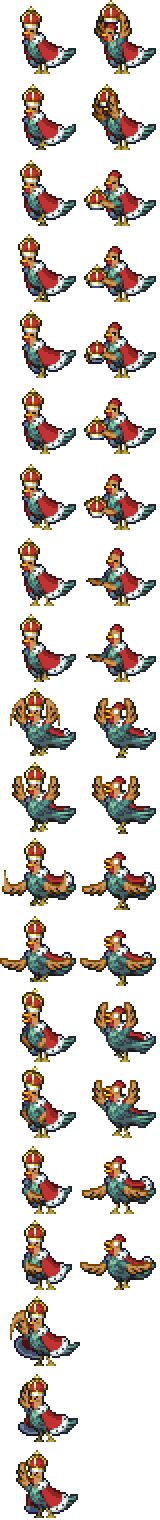
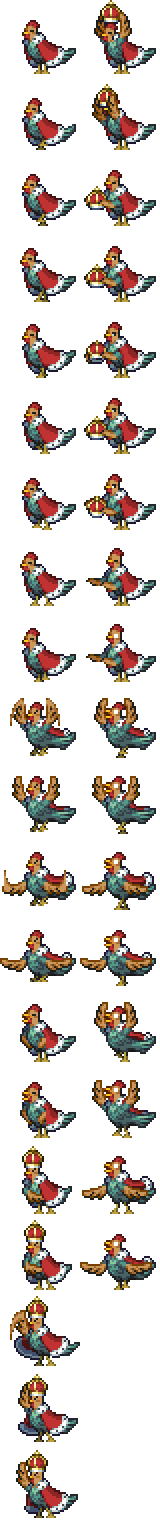
fowl patch p13

diff --git a/NPCs/Bosses/FowlEmperor/FowlEmperor.cs b/NPCs/Bosses/FowlEmperor/FowlEmperor.cs
@@ -11,12 +11,14 @@ using Redemption.Items.Usable.Potions;
 using Redemption.Items.Usable.Summons;
 using System;
 using System.Collections.Generic;
+using System.Security.AccessControl;
 using Terraria;
 using Terraria.Audio;
 using Terraria.DataStructures;
 using Terraria.GameContent;
 using Terraria.GameContent.Bestiary;
 using Terraria.GameContent.ItemDropRules;
+using Terraria.GameContent.UI;
 using Terraria.ID;
 using Terraria.ModLoader;
 
@@ -154,7 +156,8 @@ namespace Redemption.NPCs.Bosses.FowlEmperor
                     Item.NewItem(NPC.GetSource_Loot(), NPC.getRect(), ModContent.ItemType<FriedChicken>(), 5);
             }
         }
-
+        public override bool? CanBeHitByItem(Player player, Item item) => AIState > ActionState.Start ? null : false;
+        public override bool? CanBeHitByProjectile(Projectile projectile) => AIState > ActionState.Start ? null : false;
         public override void ScaleExpertStats(int numPlayers, float bossLifeScale)
         {
             NPC.lifeMax = (int)(NPC.lifeMax * 0.7f * bossLifeScale);
@@ -169,6 +172,7 @@ namespace Redemption.NPCs.Bosses.FowlEmperor
         public int crownLife = 40;
         public Vector2 moveTo;
         private bool eggCracked;
+        private Projectile crownProj;
         public override void AI()
         {
             Player player = Main.player[NPC.target];
@@ -216,14 +220,74 @@ namespace Redemption.NPCs.Bosses.FowlEmperor
                             {
                                 NPC.noTileCollide = false;
                                 NPC.noGravity = false;
+                                TimerRand++;
 
                                 AniType = (int)AnimType.None;
+                            }
+                            else
+                                NPC.Move(landingPos - new Vector2(0, 100), 10, 20);
+                            break;
+                        case 2:
+                            if (NPC.velocity.Y == 0)
+                            {
+                                NPC.LookAtEntity(player);
+                                EmoteBubble.NewBubble(15, new WorldUIAnchor(NPC), 90);
+                                NPC.Shoot(NPC.Center + new Vector2(10 * NPC.spriteDirection, -16), ModContent.ProjectileType<FowlEmperor_Crown_Proj>(), 0, NPC.velocity / 4, false, SoundID.Item1, NPC.whoAmI);
+                                NPC.velocity.X = 0;
+                                hideCrown = true;
+                                TimerRand++;
+                                for (int p = 0; p < Main.maxProjectiles; p++)
+                                {
+                                    Projectile crown = Main.projectile[p];
+                                    if (!crown.active || crown.type != ModContent.ProjectileType<FowlEmperor_Crown_Proj>() || crown.ai[0] != NPC.whoAmI)
+                                        continue;
+
+                                    crownProj = crown;
+                                }
+                            }
+                            break;
+                        case 3:
+                            AniType = (int)AnimType.Laugh;
+                            if (AITimer++ >= 90)
+                            {
+                                if (crownProj is null)
+                                    NPC.LookAtEntity(crownProj);
+                                NPC.frame.Y = 8 * 76;
+                                AniType = (int)AnimType.Stun;
+                            }
+                            if (AITimer >= 180)
+                            {
+                                AITimer = 0;
+                                TimerRand++;
+                            }
+                            break;
+                        case 4:
+                            AniType = (int)AnimType.None;
+                            if (crownProj is null)
+                                AITimer = 120;
+                            else
+                            {
+                                NPC.PlatformFallCheck(ref NPC.Redemption().fallDownPlatform, 20, crownProj.Center.Y);
+                                NPCHelper.HorizontallyMove(NPC, crownProj.Center, 0.08f, 2f, 18, 18, NPC.Center.Y > crownProj.Center.Y, crownProj);
+                            }
+                            if (AITimer++ >= 120)
+                            {
+                                NPC.velocity.X = 0;
+                                EmoteBubble.NewBubble(1, new WorldUIAnchor(NPC), 80);
+                                AniType = (int)AnimType.Recrown;
+                                AITimer = 0;
+                                TimerRand++;
+                            }
+                            break;
+                        case 5:
+                            if (AniType is (int)AnimType.None)
+                            {
+                                AniType = (int)AnimType.Recrown;
+                                AITimer = 0;
                                 AIState = ActionState.Idle;
                                 TimerRand = Main.rand.Next(140, 201);
                                 NPC.netUpdate = true;
                             }
-                            else
-                                NPC.Move(landingPos - new Vector2(0, 100), 10, 20);
                             break;
                     }
                     break;
@@ -587,6 +651,7 @@ namespace Redemption.NPCs.Bosses.FowlEmperor
                         NPC.frame.Y -= frameHeight;
                         if (NPC.frame.Y < 0)
                         {
+                            hideCrown = false;
                             NPC.frame.Y = 0;
                             AniType = (int)AnimType.None;
                         }
@@ -650,9 +715,11 @@ namespace Redemption.NPCs.Bosses.FowlEmperor
                 damage *= 10;
             }
         }
+        private bool hideCrown;
         public override bool PreDraw(SpriteBatch spriteBatch, Vector2 screenPos, Color drawColor)
         {
             Texture2D texture = TextureAssets.Npc[NPC.type].Value;
+            Texture2D crownTex = ModContent.Request<Texture2D>(Texture + "_CrownSheet").Value;
             var effects = NPC.spriteDirection == -1 ? SpriteEffects.None : SpriteEffects.FlipHorizontally;
 
             if (!NPC.IsABestiaryIconDummy && (AniType is (int)AnimType.Mad or (int)AnimType.Flap))
@@ -665,6 +732,8 @@ namespace Redemption.NPCs.Bosses.FowlEmperor
             }
 
             spriteBatch.Draw(texture, NPC.Center - new Vector2(0, 8) - screenPos, NPC.frame, NPC.GetAlpha(drawColor), NPC.rotation, NPC.frame.Size() / 2, NPC.scale, effects, 0f);
+            if (!hideCrown)
+                spriteBatch.Draw(crownTex, NPC.Center - new Vector2(0, 8) - screenPos, NPC.frame, NPC.GetAlpha(drawColor), NPC.rotation, NPC.frame.Size() / 2, NPC.scale, effects, 0f);
 
             if (!eggCracked || AniType is not (int)AnimType.Stun)
                 return false;

diff --git a/NPCs/Bosses/FowlEmperor/FowlEmperor_Crown.cs b/NPCs/Bosses/FowlEmperor/FowlEmperor_Crown.cs
@@ -1,0 +1,62 @@
+using Microsoft.Xna.Framework;
+using Microsoft.Xna.Framework.Graphics;
+using Redemption.Base;
+using Redemption.Globals;
+using Terraria;
+using Terraria.GameContent;
+using Terraria.ModLoader;
+
+namespace Redemption.NPCs.Bosses.FowlEmperor
+{
+    public class FowlEmperor_Crown_Proj : ModProjectile
+    {
+        public override string Texture => "Redemption/NPCs/Bosses/FowlEmperor/FowlEmperor_Crown";
+        public override void SetStaticDefaults()
+        {
+            DisplayName.SetDefault("Fowl Crown");
+        }
+        public override void SetDefaults()
+        {
+            Projectile.width = 18;
+            Projectile.height = 18;
+            Projectile.friendly = false;
+            Projectile.hostile = false;
+            Projectile.penetrate = -1;
+            Projectile.tileCollide = true;
+            Projectile.timeLeft = 300;
+        }
+        public override void AI()
+        {
+            NPC npc = Main.npc[(int)Projectile.ai[0]];
+            if (!npc.active || npc.type != ModContent.NPCType<FowlEmperor>() || npc.ai[2] > 4)
+                Projectile.Kill();
+            if (npc.ai[2] == 4 && npc.Hitbox.Intersects(Projectile.Hitbox))
+            {
+                npc.ai[1] = 120;
+                npc.netUpdate = true;
+                Projectile.active = false;
+            }
+            Projectile.LookByVelocity();
+            Projectile.rotation += Projectile.velocity.X / 20;
+            Projectile.velocity.Y += 0.2f;
+        }
+        public override bool PreDraw(ref Color lightColor)
+        {
+            Texture2D texture = TextureAssets.Projectile[Projectile.type].Value;
+            Vector2 drawOrigin = new(texture.Width / 2, texture.Height / 2 + 2);
+
+            Main.EntitySpriteDraw(texture, Projectile.Center - Main.screenPosition, null, Projectile.GetAlpha(lightColor), Projectile.rotation, drawOrigin, Projectile.scale, SpriteEffects.None, 0);
+            return false;
+        }
+        public override bool OnTileCollide(Vector2 oldVelocity)
+        {
+            if (Projectile.velocity.X != oldVelocity.X)
+                Projectile.velocity.X = -oldVelocity.X;
+            if (Projectile.velocity.Y != oldVelocity.Y)
+                Projectile.velocity.Y = -oldVelocity.Y;
+            Projectile.velocity.Y *= 0.5f;
+            Projectile.velocity.X *= 0.8f;
+            return false;
+        }
+    }
+}

diff --git a/NPCs/FowlMorning/Cockatrice.cs b/NPCs/FowlMorning/Cockatrice.cs
@@ -8,6 +8,9 @@ using Redemption.Globals.NPC;
 using Redemption.Globals.World;
 using Redemption.Items.Accessories.PreHM;
 using Redemption.Items.Usable.Potions;
+using Redemption.Items.Weapons.PreHM.Melee;
+using Redemption.Items.Weapons.PreHM.Ranged;
+using Redemption.Items.Weapons.PreHM.Summon;
 using System;
 using System.Collections.Generic;
 using Terraria;
@@ -83,6 +86,10 @@ namespace Redemption.NPCs.FowlMorning
 
                 new FlavorTextBestiaryInfoElement("Squawk!")
             });
+        }
+        public override void BossLoot(ref string name, ref int potionType)
+        {
+            potionType = ItemID.Heart;
         }
         public override void ScaleExpertStats(int numPlayers, float bossLifeScale)
         {
@@ -263,6 +270,9 @@ namespace Redemption.NPCs.FowlMorning
         public override void ModifyNPCLoot(NPCLoot npcLoot)
         {
             npcLoot.Add(ItemDropRule.Common(ModContent.ItemType<EggShield>(), 10));
+            npcLoot.Add(ItemDropRule.Common(ModContent.ItemType<GreneggLauncher>(), 10));
+            npcLoot.Add(ItemDropRule.Common(ModContent.ItemType<Halbirdhouse>(), 10));
+            npcLoot.Add(ItemDropRule.Common(ModContent.ItemType<NestWand>(), 10));
             npcLoot.Add(ItemDropRule.ByCondition(new OnFireCondition(), ModContent.ItemType<FriedChicken>(), 1, 2, 3));
         }
         public override void OnHitByItem(Player player, Item item, int damage, float knockback, bool crit)

diff --git a/Globals/NPC/RedeNPC.cs b/Globals/NPC/RedeNPC.cs
@@ -37,6 +37,7 @@ using Redemption.Items.Donator.Lordfunnyman;
 using Redemption.Globals.World;
 using Redemption.Buffs.Cooldowns;
 using Steamworks;
+using Redemption.Items.Weapons.PreHM.Ranged;
 
 namespace Redemption.Globals.NPC
 {
@@ -52,6 +53,8 @@ namespace Redemption.Globals.NPC
 
         public override void SetupShop(int type, Chest shop, ref int nextSlot)
         {
+            if (type == NPCID.Demolitionist && Main.LocalPlayer.HasItem(ModContent.ItemType<GreneggLauncher>()))
+                shop.item[nextSlot++].SetDefaults(ModContent.ItemType<EggBomb>());
             if (type == NPCID.SkeletonMerchant)
                 shop.item[nextSlot++].SetDefaults(ModContent.ItemType<CalciteWand>());
             if (type == NPCID.Dryad)

diff --git a/NPCs/FowlMorning/ChickenBomber.cs b/NPCs/FowlMorning/ChickenBomber.cs
@@ -126,7 +126,7 @@ namespace Redemption.NPCs.FowlMorning
         public override void ModifyNPCLoot(NPCLoot npcLoot)
         {
             npcLoot.Add(ItemDropRule.Common(ModContent.ItemType<EggBomb>(), 2, 4, 6));
-            npcLoot.Add(ItemDropRule.Common(ModContent.ItemType<GreneggLauncher>(), 25));
+            npcLoot.Add(ItemDropRule.Common(ModContent.ItemType<GreneggLauncher>(), 60));
             npcLoot.Add(ItemDropRule.ByCondition(new OnFireCondition(), ModContent.ItemType<FriedChicken>(), 4));
         }
         public override void OnHitByItem(Player player, Item item, int damage, float knockback, bool crit)

diff --git a/NPCs/FowlMorning/Haymaker.cs b/NPCs/FowlMorning/Haymaker.cs
@@ -169,7 +169,7 @@ namespace Redemption.NPCs.FowlMorning
         }
         public override void ModifyNPCLoot(NPCLoot npcLoot)
         {
-            npcLoot.Add(ItemDropRule.Common(ModContent.ItemType<NestWand>(), 50));
+            npcLoot.Add(ItemDropRule.Common(ModContent.ItemType<NestWand>(), 60));
             npcLoot.Add(ItemDropRule.ByCondition(new OnFireCondition(), ModContent.ItemType<FriedChicken>(), 4));
         }
         public override void OnHitByItem(Player player, Item item, int damage, float knockback, bool crit)

diff --git a/Items/Weapons/PreHM/Ranged/EggBomb.cs b/Items/Weapons/PreHM/Ranged/EggBomb.cs
@@ -1,3 +1,4 @@
+using Terraria;
 using Terraria.ID;
 using Terraria.ModLoader;
 
@@ -18,7 +19,7 @@ namespace Redemption.Items.Weapons.PreHM.Ranged
             Item.damage = 32;
             Item.knockBack = 8;
             Item.maxStack = 9999;
-            Item.value = 15;
+            Item.value = Item.buyPrice(0, 0, 0, 70);
             Item.rare = ItemRarityID.Blue;
             Item.useStyle = ItemUseStyleID.Swing;
             Item.useAnimation = 35;

diff --git a/NPCs/PreHM/VagrantSpirit.cs b/NPCs/PreHM/VagrantSpirit.cs
@@ -259,7 +259,7 @@ namespace Redemption.NPCs.PreHM
             if (spawnInfo.Player.RedemptionAbility().SpiritwalkerActive && !spawnInfo.Player.ZoneTowerNebula && !spawnInfo.Player.ZoneTowerSolar && !spawnInfo.Player.ZoneTowerStardust && !spawnInfo.Player.ZoneTowerVortex)
                 return 0.6f;
 
-            return SpawnCondition.Cavern.Chance * 0.01f;
+            return SpawnCondition.Cavern.Chance * 0.007f;
         }
     }
 }
